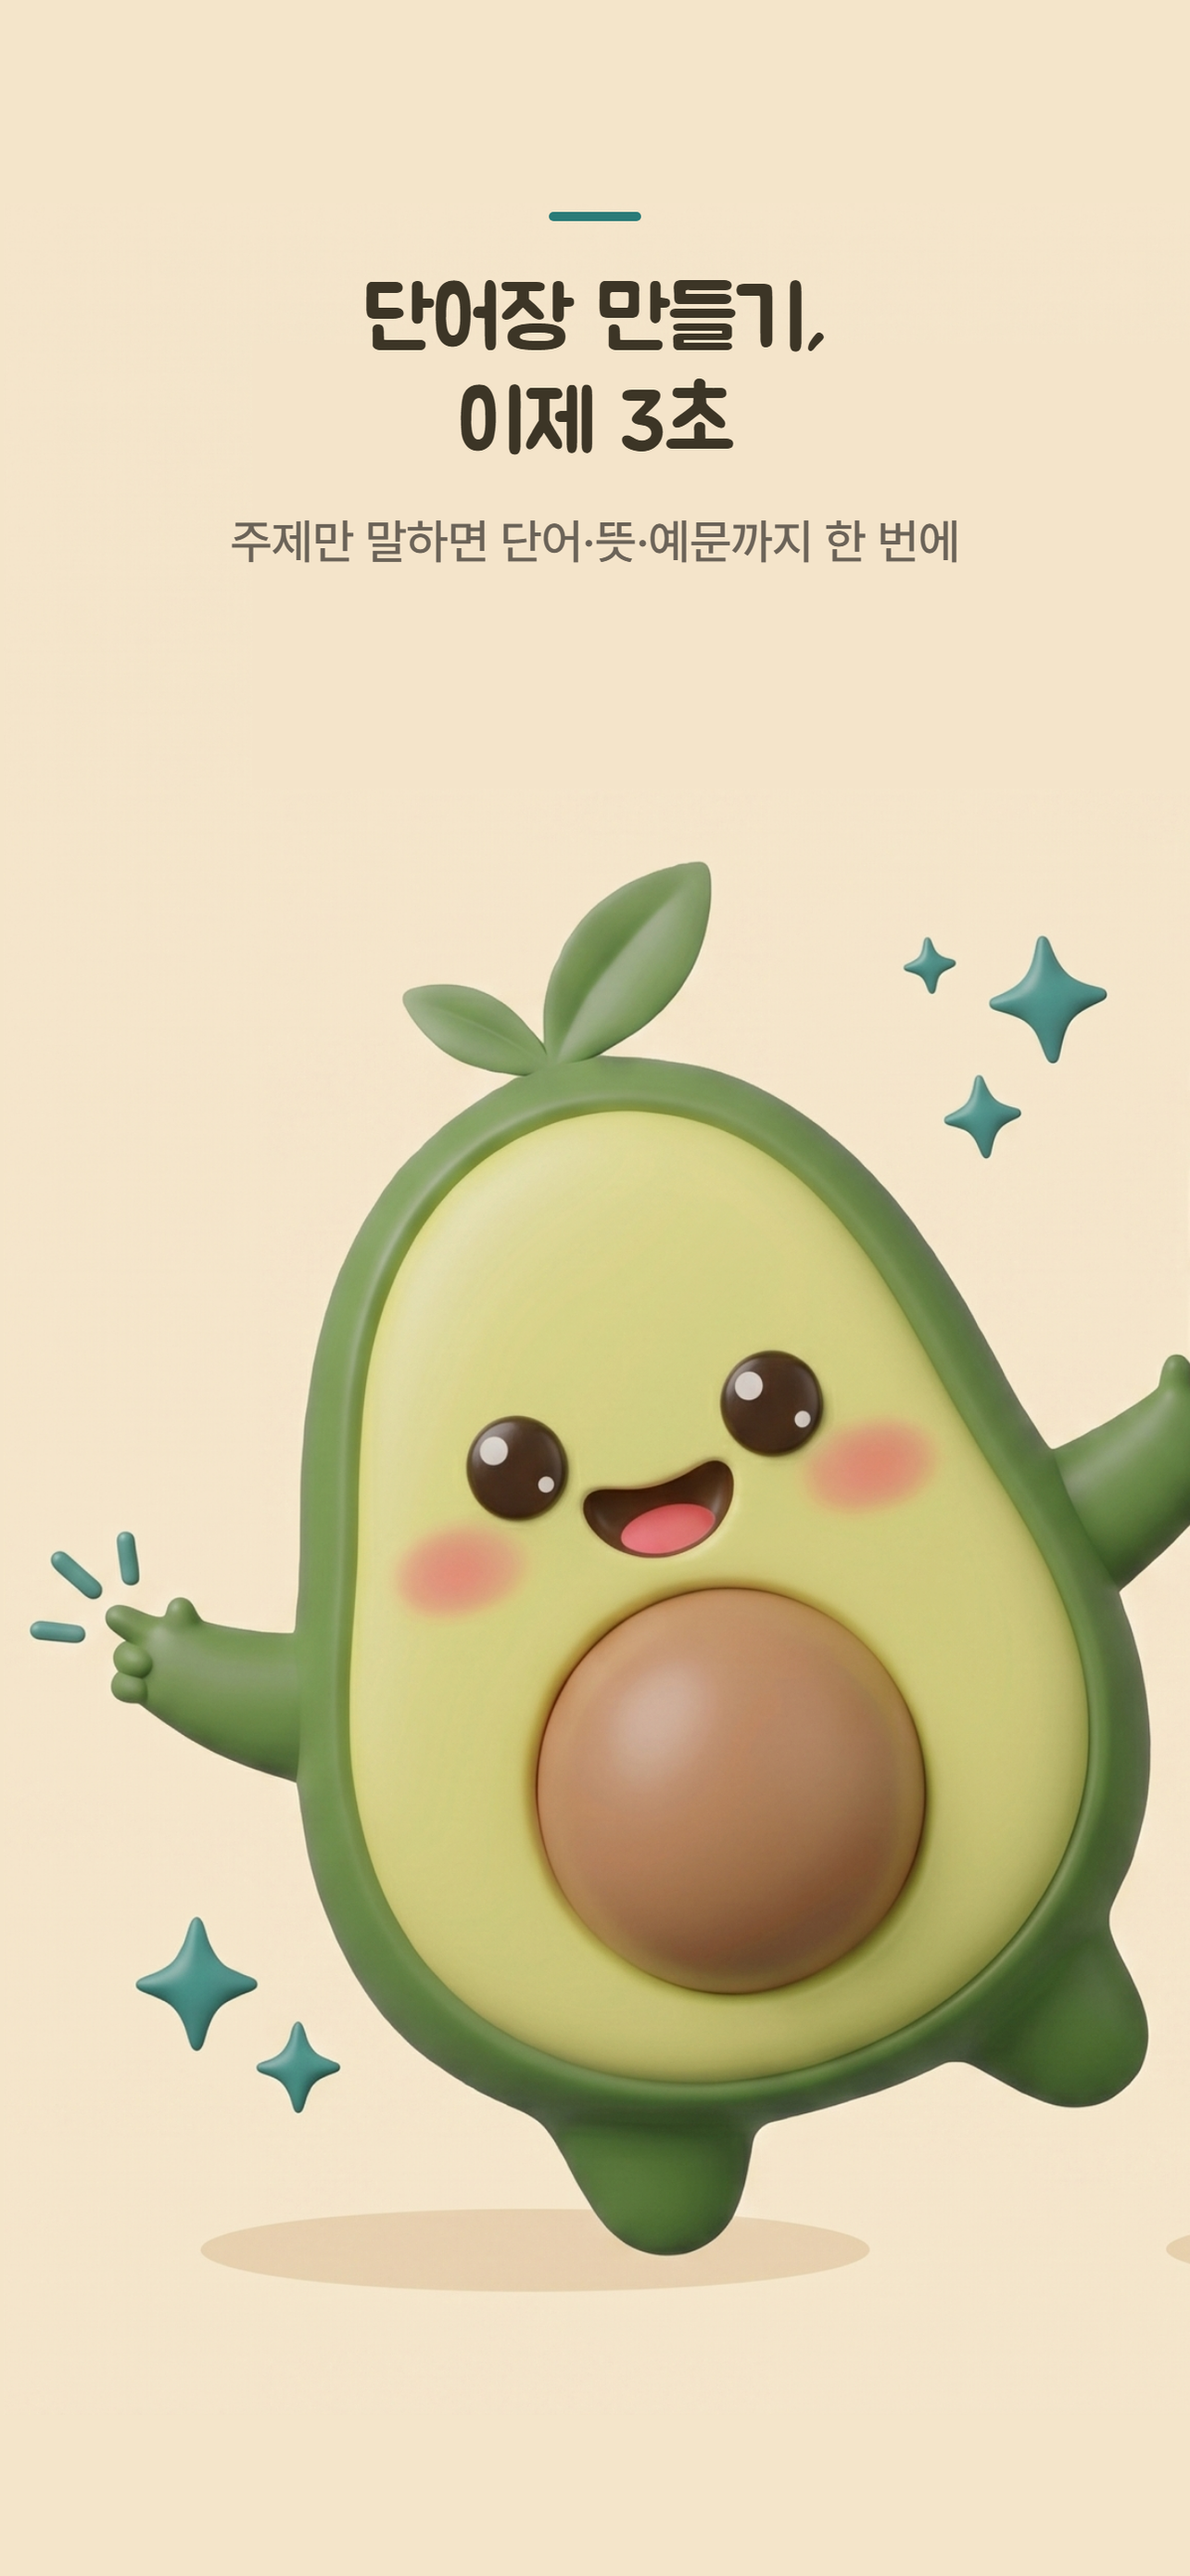
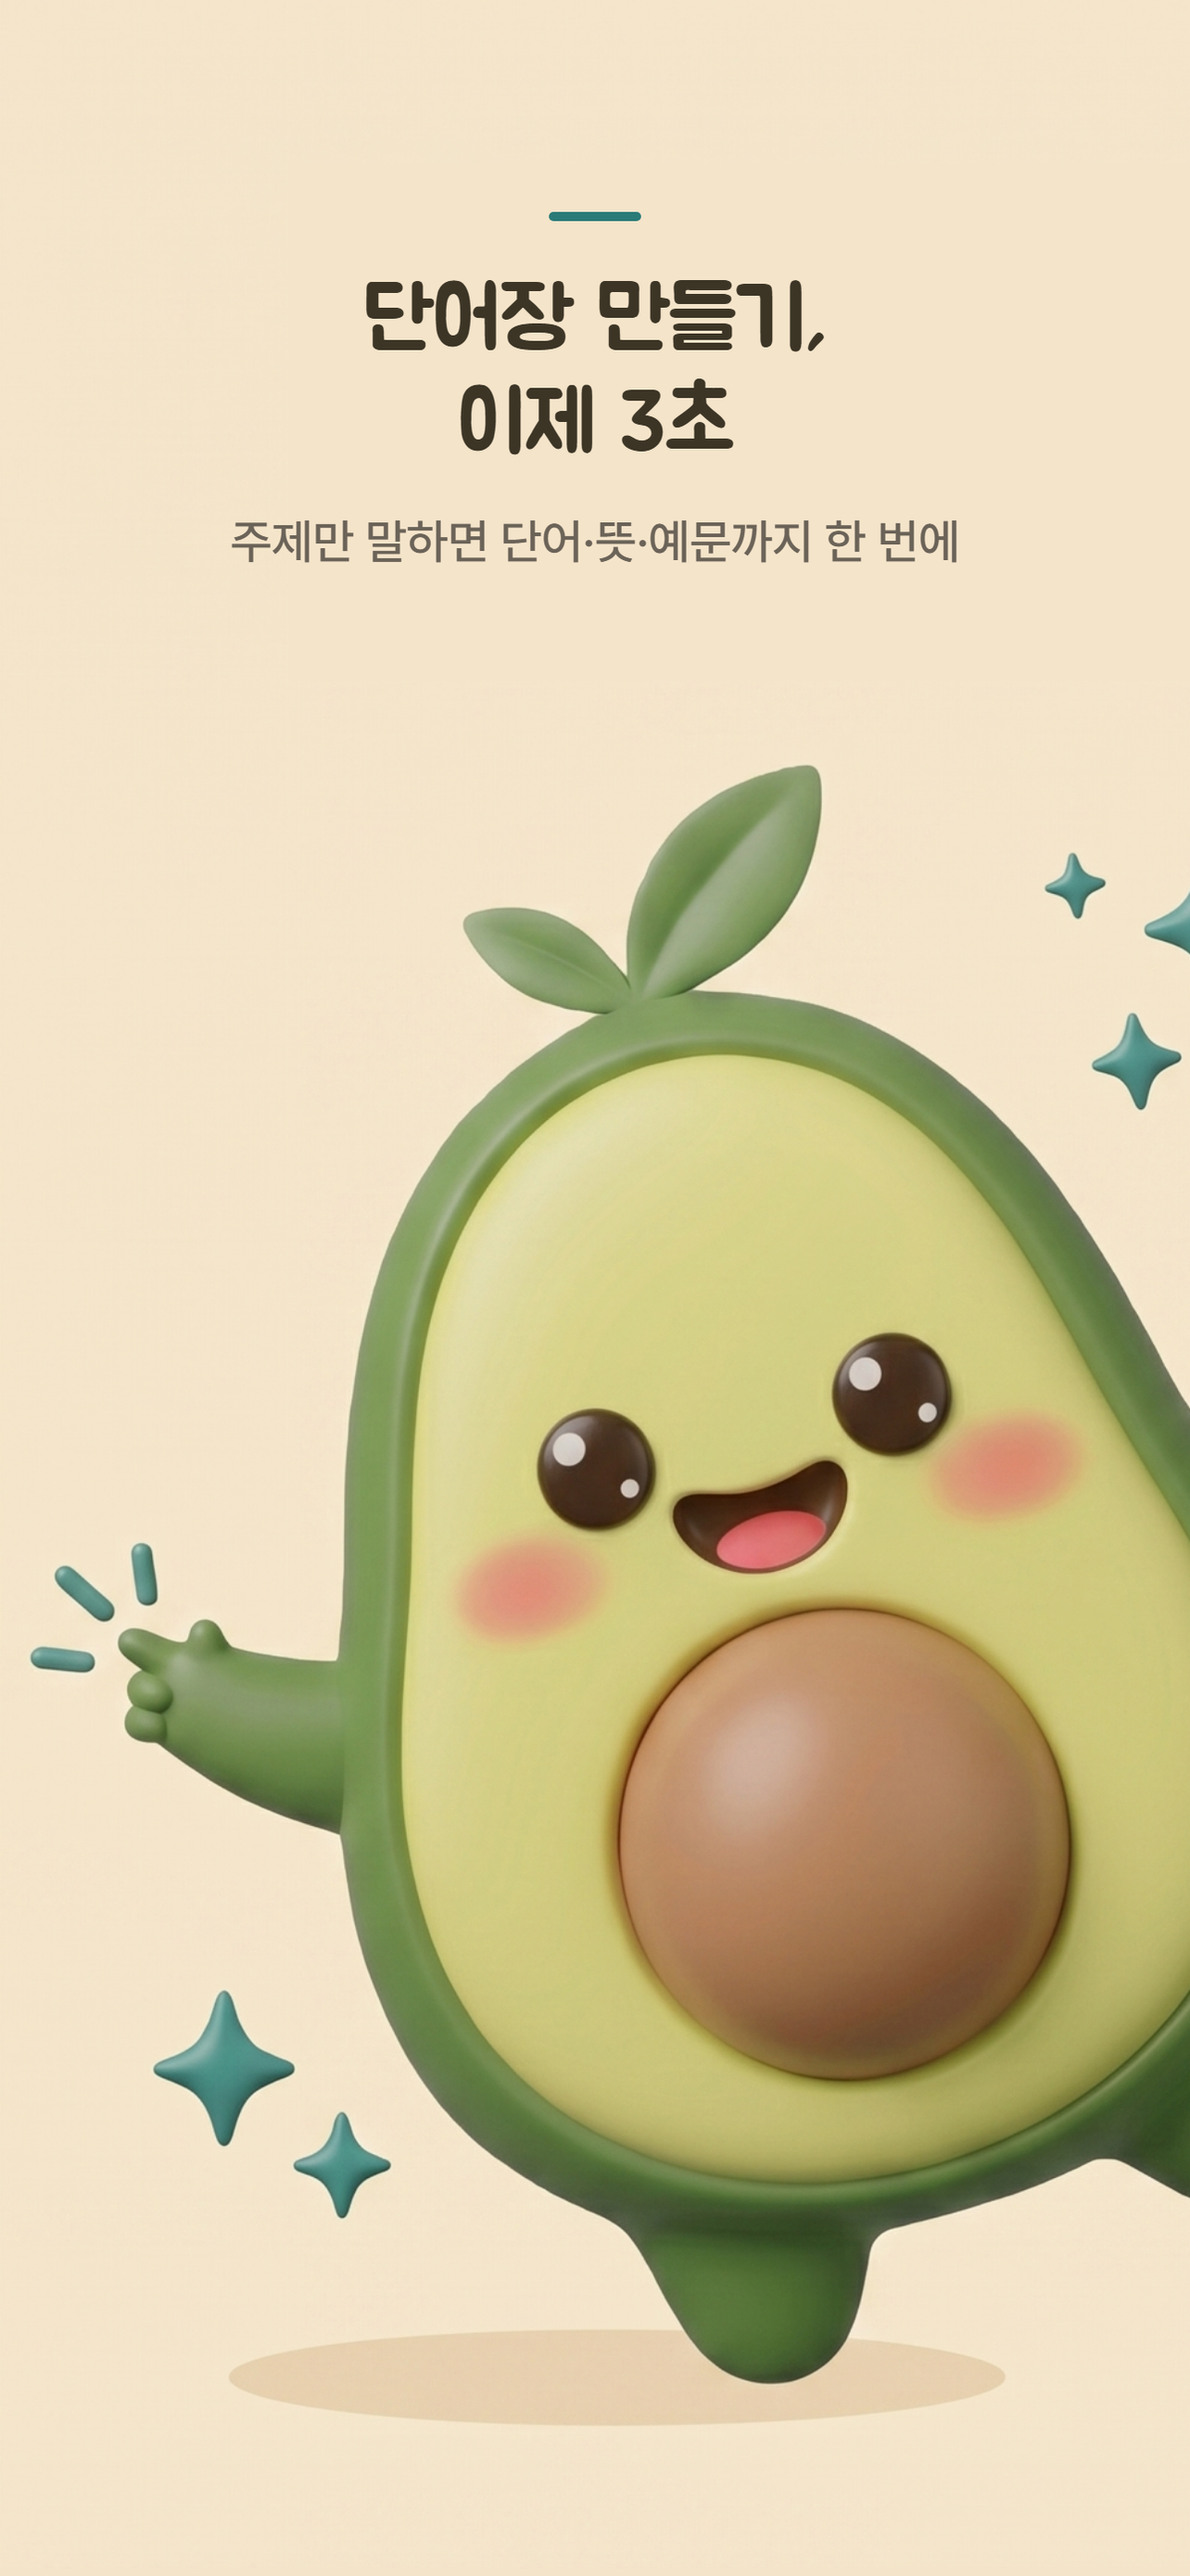
chore(store): 스크린샷 홈·테마 재촬영 반영 + 히어로를 파노라마로
홈 3종(클래식·다크 고요·Y2K)을 ko/en으로 다시 찍어 넣었다. 테마 raw에 남아
있던 검색창과 "맞춤 학습" 라벨이 사라지고, 05-home도 손수정본에서 실촬영본으로
바뀌면서 StatsStrip과 복습 배너가 처음 들어갔다. 테마 duo는 ko와 en의 앞뒤가
서로 반대였던 것을 08=다크 고요(뒤)·09=Y2K(앞)로 통일했다.

히어로 두 장은 파노라마로 되돌렸다. 배율이 1.12/1.30으로 갈려 있어 갤러리에서
나란히 보면 같은 캐릭터가 1.16배 크기로 다시 나오고 있었다. 두 장을 같은
배율(2580/1984 = 1.3004)로 깔고 x만 0 / -1290으로 두면 그대로 이어진다 —
hero.html이 폰 화면 자리를 배경 오프셋으로 잡으므로 위치는 자동으로 따라온다.
Play는 캔버스가 2:1이라 세로가 208px 넘쳐 y=-52로 내렸고, 배율이 같아지면서
hero.screen·notch 좌표가 App Store와 같아졌다.

"파노라마는 기하학적으로 불가"라던 판단은 틀렸다. 1장에서 캐릭터가 잘리는 것을
결격으로 봤는데, 파노라마에서는 잘린 자리가 2장에서 이어지는 것이 작동 원리다.
실제로 잘리는 곳은 몸통 오른쪽과 뻗은 팔이고 얼굴은 1장에 온전히 들어간다.
경위를 hero/README.md에 남겼다 — 안 그러면 같은 결론에 다시 도달한다.

문서 두 곳도 바로잡았다. 테마 스크린샷을 찍는 화면은 설정→표시→스킨이 아니라
홈 탭이고(기존 raw가 전부 홈이었다), captureDevice의 "iPhone 13 mini 1080x2340"
표기는 실물 1125x2436과 달랐다.

검증: 이음새 평균 색차 3.2~3.6, 화면 잔상 0.010~0.013%(기준 0.05%).

Claude-Session: https://claude.ai/code/session_011P1oufp4rSrY2ep6pxcLcP

Changed region(s): [[0.0312, 0.2786, 1.0, 0.9597], [0.9657, 0.3405, 1.0, 0.3715]]

diff --git a/store-assets/screenshots/hero/make-assets.py b/store-assets/screenshots/hero/make-assets.py
@@ -48,6 +48,10 @@ crop.save(out)
 print(f"OK notch.png  {crop.size}  (원본 crop {box})")
 print(f"   화면 기준 상대위치: left={nx - pad - SCREEN[0]}, top={ny - SCREEN[1]}")
 
+# 참고: 두 장은 이 원본 한 장을 같은 배율(2580/1984 = 1.3004)로 깔고 x 오프셋만
+# 0 / -1290으로 달리해 파노라마로 잇는다. 캐릭터를 지운 별도 판은 필요 없다 —
+# 1장에서 잘리는 몸통·팔이 2장에서 그대로 이어지는 게 이 구성의 요점이다.
+
 # 참고용 실측 출력
 full = im.load()
 sx, sy, sw, sh = SCREEN

diff --git a/store-assets/screenshots/hero/README.md b/store-assets/screenshots/hero/README.md
@@ -36,25 +36,39 @@ make-assets.py 부품 추출 + 좌표 실측 출력
 화면 비율 603/1285 = 0.469, 캡처(1125×2436) = 0.462 — 캡처를 폭에 맞추면 하단
 21px이 넘쳐 잘린다. 홈 인디케이터 여백만 잘리고 탭바는 남는다.
 
-## 장별 배치가 그 값인 이유
+## 장별 배치 — 파노라마 (2026-07-31 확정)
 
-**1장(캐릭터)** — 캐릭터 폭 1134가 캔버스 1290에 들어가지만, 캐릭터 오른쪽 끝과
-폰이 맞붙어 있어(간격 20px) 폰을 밀어내면 캐릭터도 오른쪽 가장자리에 붙는다.
-배율 1.12·x=4로 두면 폰 최좌단이 1150×1.12+4 = **1292px**, 즉 캔버스 밖 2px에
-놓여 폰 조각이 사라지고 캐릭터 팔만 화면 밖으로 뻗는다.
+**두 장은 원본 한 장을 같은 배율로 깔고 x 오프셋만 달리한다.** 그래서 이어진다.
 
-**2장(폰)** — 폰 중심(원본 x=1533)이 캔버스 정중앙에 오도록 오프셋을 잡았다.
-왼쪽에 캐릭터 몸통이 걸치는 건 의도 — "캐릭터가 폰을 들고 있다"가 읽힌다.
+| | 배율 | bg width×height | x | y |
+|---|---|---|---|---|
+| App Store (1290×2796) | 1.3004 | 2580×2788 | 1장 `0` / 2장 `-1290` | `0` |
+| Play (1290×2580) | 1.3004 | 2580×2788 | 1장 `0` / 2장 `-1290` | `-52` |
 
-## 파노라마를 쓰지 않는 이유
+- 배율은 **캔버스 폭 2장분 ÷ 원본 폭** = 2580/1984 = 1.3004로 고정된다. 파노라마인 이상
+  선택의 여지가 없는 값이다.
+- `hero.html`의 `.screen`이 `SCREEN_X + OFFSET_X`로 잡히므로 **폰 화면 자리는 자동으로 따라온다**.
+- **Play만 y=-52**인 이유: 세로가 2788인데 캔버스는 2580이라 208px이 넘친다. y=0이면 아래가
+  잘려 캐릭터 발(원본 2024)과 폰 하단(2022)이 날아간다. -52면 둘 다 살고, 위쪽 52px은 배경만
+  잘린다. **더 내리면**(-88 이하) 아래 여백은 늘지만 폰 상단이 캡션(끝 ≈596)에 다가간다.
+- 두 장의 `hero` 블록(screen·notch 좌표)이 **App Store와 Play에서 같아졌다** — 배율이 같아서다.
+  Play가 예전에 다른 값을 쓴 건 배율이 1.2001이었기 때문이다.
 
-원안은 원본 한 장을 두 장에 걸쳐 깔고 `background-position`만 바꿔 자르는
-파노라마였다(이음새는 실측 평균차 1.7로 정확히 맞았다). **버린 이유는 기하학이다** —
-캐릭터 폭 1134 > 분할 창 992라서 분할선을 어디로 옮겨도 1장에서 캐릭터가 잘린다.
-원본이 프롬프트의 "중앙선을 비울 것"을 지키지 않았기 때문이고, 그림을 다시 만들지
-않는 한 해결되지 않는다. 계획서 §2가 "스토어 갤러리는 어차피 간격·모서리 때문에
-이어져 보이지 않으니 각 장이 단독으로 성립해야 한다"고 세운 원칙을 따라, 두 장을
-독립 구성으로 바꿨다.
+## 파노라마를 한 번 버렸다가 되살린 경위 — 판단이 틀렸던 지점
+
+원안이 파노라마였는데(이음새 실측 평균차 1.7) **"캐릭터 폭 1134 > 분할 창 992라서 1장에서
+캐릭터가 잘린다"**를 결격 사유로 보고 버렸다. 두 장을 다른 배율(1.12 / 1.30)로 깐 독립 구성이
+그 결과다. **이 판단이 틀렸다.**
+
+- 파노라마에서 **1장의 캐릭터가 잘리는 건 결함이 아니라 작동 원리다.** 잘린 자리가 2장에서
+  이어지는 것이 목적이다. "각 장이 단독으로 성립해야 한다"는 원칙을 잘림 금지로 읽은 게 오독이다.
+- 실제로 잘리는 곳은 **몸통 오른쪽과 뻗은 팔**이고, **얼굴은 1장 안에 온전히 들어간다**
+  (얼굴 원본 x≈400~750 ⊂ 1장이 담는 0~992). 잘려서 곤란한 부위가 애초에 걸리지 않는다.
+- 독립 구성 쪽이 오히려 나빴다: 배율이 달라 **같은 캐릭터가 2장에 1.16배 크기로 다시 나왔고**,
+  1장 오른쪽의 잘린 팔이 "이어질 것 같은데 안 이어지는" 착시를 만들었다.
+
+⚠ **이건 장을 하나씩 보면 절대 안 잡힌다.** 각 장은 따로 보면 멀쩡하고, 실측·검증도 장 단위로
+하면 전부 통과한다. **인접한 두 장을 붙여 놓고 봐야** 드러난다.
 
 ## 검증
 

diff --git a/store-assets/screenshots/appstore/README.md b/store-assets/screenshots/appstore/README.md
@@ -38,12 +38,15 @@ appstore/
 | 6 | `04-stats` | 내 학습(통계) | 스트릭·달력·외운 단어, 캐릭터 포함 | 리텐션 |
 | 7 | `06-autocomplete` | 단어 추가 | 뜻·예문·발음·품사 자동완성 다 채워진 순간 | AI 디테일 |
 | 8 | `07-curation` | 단어 모음 | 큐레이션 카드들, 다국어 섞이게 | 규모감 |
-| 9 | `08-theme` | 설정→표시→스킨 | **duo** — `08-theme1`(뒤) + `09-theme2`(앞) 겹침 | 🥑 브랜드 개성 |
+| 9 | `08-theme` | **홈 탭** (스킨 적용 상태) | **duo** — `08-theme1`=다크 고요(뒤) + `09-theme2`=Y2K(앞) | 🥑 브랜드 개성 |
 
 > - `05-home`은 **단독 장에서 빠졌다** — 히어로 2장의 폰 안이 같은 화면이라 중복.
 >   raw는 히어로가 쓰므로 **지우지 말 것**. 이 raw는 홈 캡처에 '오늘의 복습' 배너를
 >   합성한 것이다(재촬영 시 주의).
 > - `08-theme`는 id와 raw 파일명이 다르다. raw는 `08-theme1.png`·`09-theme2.png` 두 장.
+>   찍는 곳은 **스킨 설정 화면이 아니라 홈 탭**이다 — 스킨을 바꾼 뒤 홈으로 나와서 찍는다.
+>   **앞뒤 테마를 ko·en에서 통일할 것**: `08-theme1`=다크 고요(뒤) · `09-theme2`=Y2K(앞).
+>   밝은 쪽이 앞이라야 크림 배경과 이어진다. duo에서 뒤 폰은 왼쪽 절반쯤만 보인다.
 > - id 번호에 05가 없는 건 의도다 — 재번호하면 raw 파일명을 다 바꿔야 한다.
 
 ## 캡처 수칙
